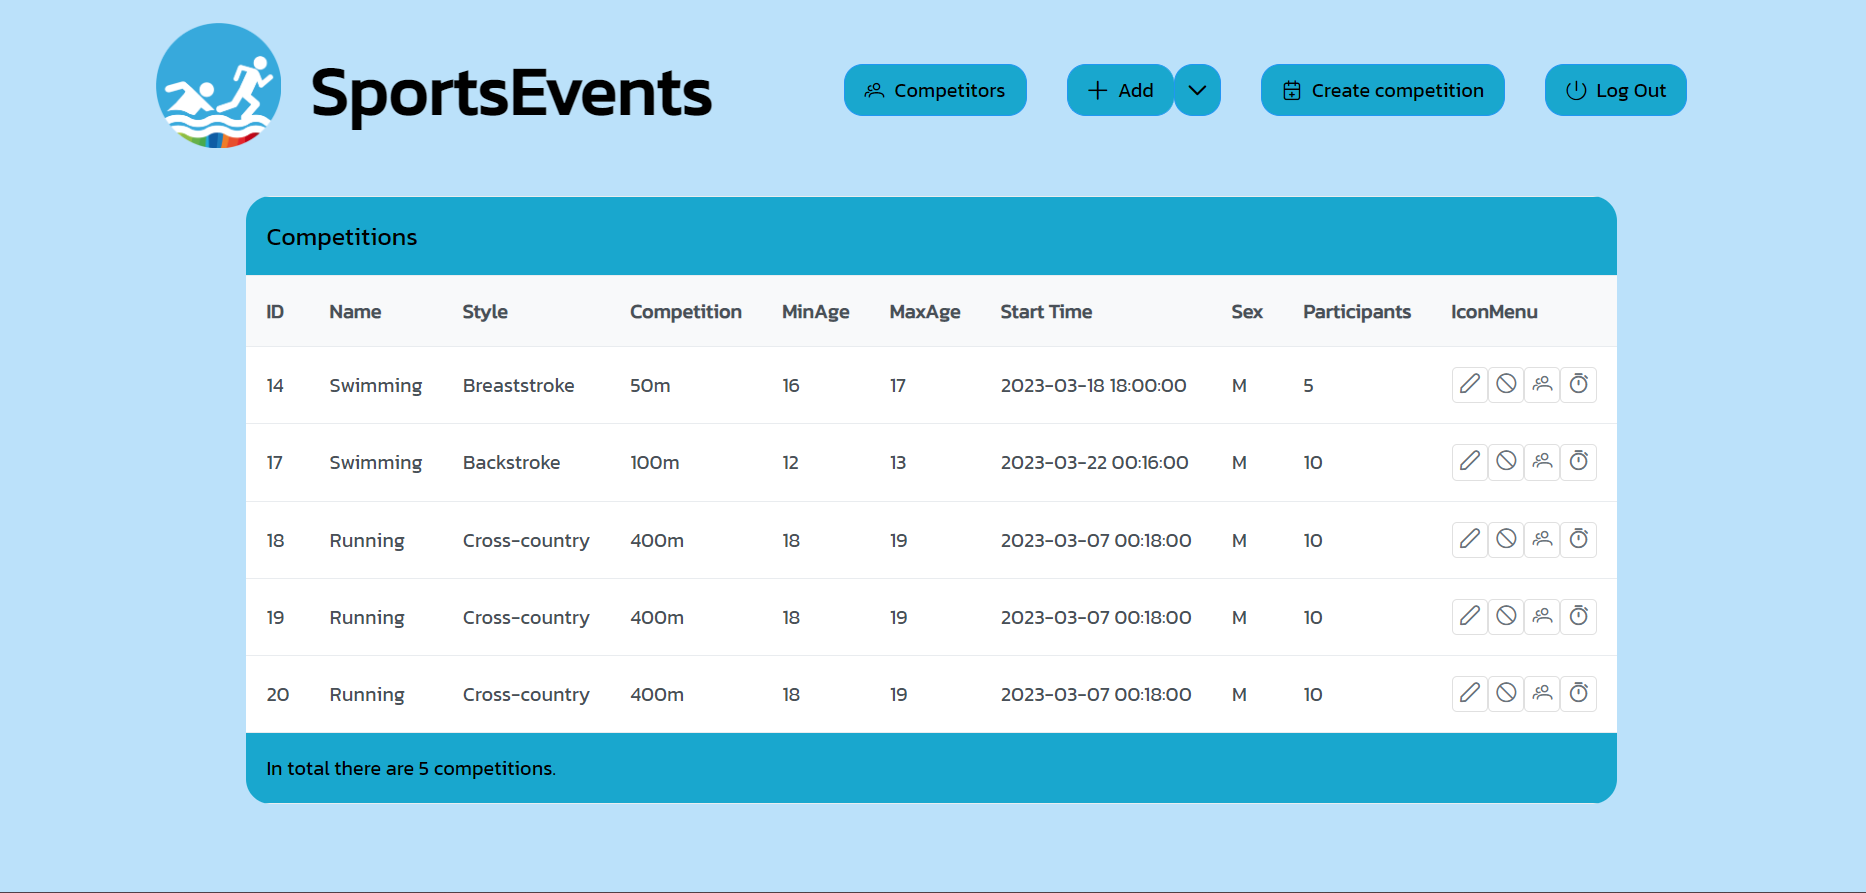
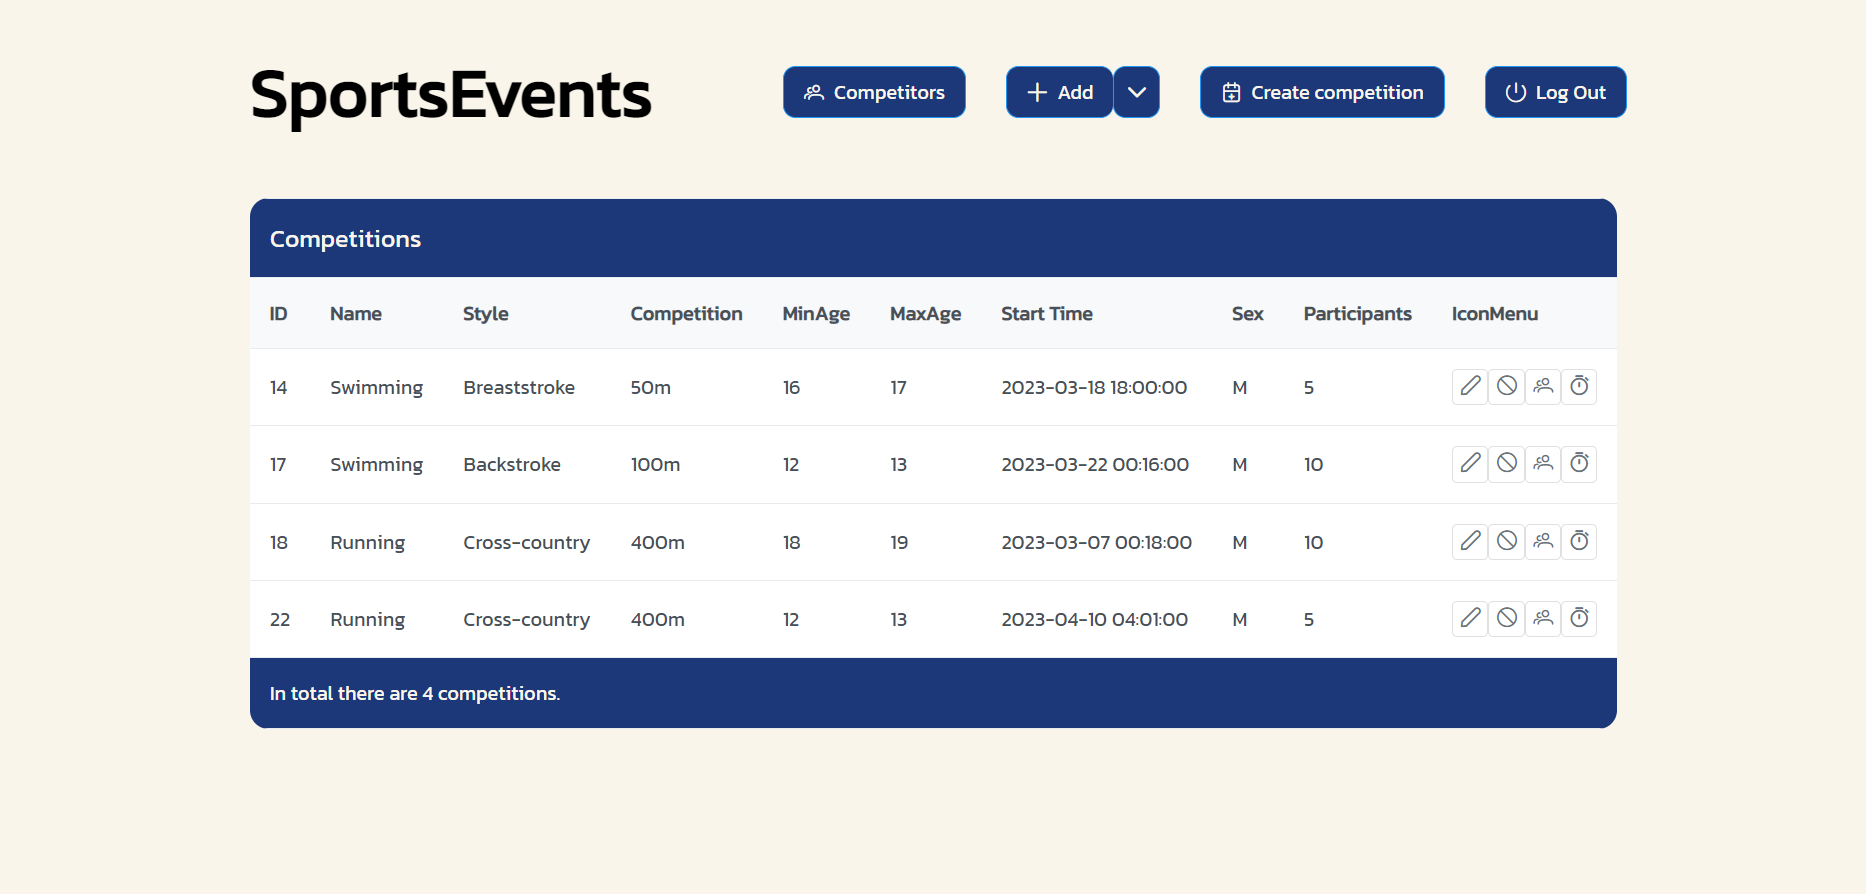
ready

diff --git a/resources/js/components/app.vue b/resources/js/components/app.vue
@@ -1,19 +1,12 @@
 <template>
     <div class="justify-content-center flex align-items-center">
-        <div class="flex align-items-center">
-            <div>
-                <router-link to="/" class="no-decoration">
-                    <h1 class="logo-name m-4">SportsEvents</h1></router-link 
-                >
-            </div>
-        </div>
+        <router-link to="/" class="no-decoration">
+            <h1 class="logo-name m-4">SportsEvents</h1></router-link
+        >
         <div class="flex">
             <ul class="no-list-style flex pad-0">
-                <li class="m-3">
-                    <router-link
-                        v-if="$route.name === 'Home'"
-                        to="/login"
-                        class="no-decoration"
+                <li v-if="$route.name === 'Home'" class="m-3">
+                    <router-link to="/login" class="no-decoration"
                         ><Button class="my-button" label="Login"
                     /></router-link>
                 </li>
@@ -25,16 +18,16 @@
                         ><Button label="Register"
                     /></router-link>
                 </li>
-                <li class="m-3">
-                    <router-link
-                        v-if="
-                            $route.name != 'Home' &&
-                            $route.name != 'Login' &&
-                            $route.name != 'Register' &&
-                            $route.name != 'Competitors'
-                        "
-                        to="/admin/competitors"
-                        class="no-decoration"
+                <li
+                    v-if="
+                        $route.name != 'Home' &&
+                        $route.name != 'Login' &&
+                        $route.name != 'Register' &&
+                        $route.name != 'Competitors'
+                    "
+                    class="m-3"
+                >
+                    <router-link to="/admin/competitors" class="no-decoration"
                         ><Button label="Competitors" icon="pi pi-users"
                     /></router-link>
                 </li>

diff --git a/resources/css/app.css b/resources/css/app.css
@@ -6,6 +6,9 @@ body {
     background-color: #F9F5EB;
     font-family: "Kanit", sans-serif;
 }
+.bright-txt {
+color: #F9F5EB;
+}
 .logo {
     width: 100px;
     height: 100px;
@@ -18,7 +21,7 @@ body {
     font-family: "Kanit", sans-serif !important;
 }
 .bg-dark-blue {
-    background-color: #607EAA;
+    background-color: #1C3879;
 }
 .br-radius-15 {
     border-radius: 15px !important;
@@ -82,9 +85,6 @@ body {
     flex-direction: column;
     align-items: center;
 }
-.save-button {
-    grid-area: 2/4/2/4;
-}
 .input-grid {
     margin: auto;
     display: grid;
@@ -106,30 +106,34 @@ body {
 .datatable {
     font-size: 14px;
     border: 0;
-    border-radius: 20px;
+    border-radius: 15px;
     overflow: hidden;
 }
 .p-datatable .p-datatable-header {
-    background-color: #607EAA !important;
-    color: #000000 !important;
+    background-color: #1C3879 !important;
+    color: #F9F5EB !important;
     font-weight: 400 !important;
     font-size: 20px; 
 }
 .p-datatable .p-datatable-footer {
-    background-color: #607EAA !important;
-    color: #000000 !important;
+    background-color: #1C3879 !important;
+    color: #F9F5EB !important;
     font-weight: 400 !important;
 }
 .p-button  {
-    background-color: #607EAA !important;
-    color: #000000 !important;
-    border-radius: 15px !important;
+    background-color: #1C3879 !important;
+    color: #F9F5EB !important;
+    border-radius: 10px !important;
 }
 .p-button:hover {
-    background-color: #1C3879 !important;
-    color: white !important;
+    background-color: #F9F5EB !important;
+    color: #1C3879 !important;
 }
 .save-btn {
-    background-color: black !important;
-    color: #e0e0e0 !important;
+    background-color: #F9F5EB !important;
+    color: black !important;
+} 
+.save-btn:hover {
+    background-color: #1C3879 !important;
+    color: #F9F5EB !important;
 } 

diff --git a/resources/modules/Disciplines/EditDiscipline.vue b/resources/modules/Disciplines/EditDiscipline.vue
@@ -91,7 +91,7 @@
                         :trueValue="1"
                         :falseValue="0"
                     />
-                    <p>Check for time, leave for score</p>
+                    <p class="bright-txt">Check for time, leave for score</p>
                 </div>
                 <div class="m-3">
                     <Checkbox
@@ -100,13 +100,13 @@
                         :trueValue="1"
                         :falseValue="0"
                     />
-                    <p>Check if the biggest score wins</p>
+                    <p class="bright-txt">Check if the biggest score wins</p>
                 </div>
                 <div class="save-button m-3">
                     <Button
                         @click="saveCompetition"
                         label="Save"
-                        class="p-button-rounded"
+                        class="save-btn"
                     />
                 </div>
             </div>
@@ -140,3 +140,8 @@ const getSingleDiscipline = async () => {
     form.value = response.data;
 };
 </script>
+<style scoped>
+.save-button {
+    grid-area: 2/4/2/4;
+}
+</style>

diff --git a/resources/modules/Disciplines/CreateDiscipline.vue b/resources/modules/Disciplines/CreateDiscipline.vue
@@ -3,7 +3,7 @@
     <div
         class="flex flex-column bg-dark-blue w-10 m-20-auto br-radius-15 pad-15"
     >
-        <h2 class="m-3">Add new competition</h2>
+        <h2 class="m-3 bright-txt">Add new competition</h2>
         <div class="m-auto flex align-items-center">
             <div class="input-grid">
                 <div>
@@ -88,7 +88,7 @@
                         :trueValue="1"
                         :falseValue="0"
                     />
-                    <p>Check for time, leave for score</p>
+                    <p class="bright-txt">Check for time, leave for score</p>
                 </div>
                 <div class="m-3">
                     <Checkbox
@@ -97,7 +97,7 @@
                         :trueValue="1"
                         :falseValue="0"
                     />
-                    <p>Check if the biggest score wins</p>
+                    <p class="bright-txt">Check if the biggest score wins</p>
                 </div>
                 <div class="save-button m-3">
                     <Button

diff --git a/resources/modules/Participations/ChooseCompetition.vue b/resources/modules/Participations/ChooseCompetition.vue
@@ -1,6 +1,5 @@
 <template>
     <div class="flex flex-column center">
-        <h2 class="m-0">Sign competitor to competition</h2>
         <DataTable
             v-if="ifSelected == false"
             :value="competitions"
@@ -8,9 +7,9 @@
             selectionMode="single"
             dataKey="id"
             responsiveLayout="scroll"
-            :scrollable="true"
+            scrollable
             scrollHeight="400px"
-            class="datatable w-max m-20-auto"
+            class="datatable m-20-auto"
         >
             <template #header>Competitions </template>
             <Column
@@ -23,7 +22,7 @@
         <Button
             v-if="ifSelected == false"
             @click="handleClick"
-            label="Show Competitors"
+            label="Add Competitors"
             class="p-button-rounded m-3"
         />
         <Button
